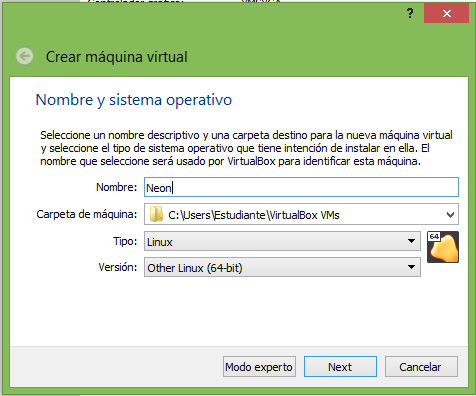
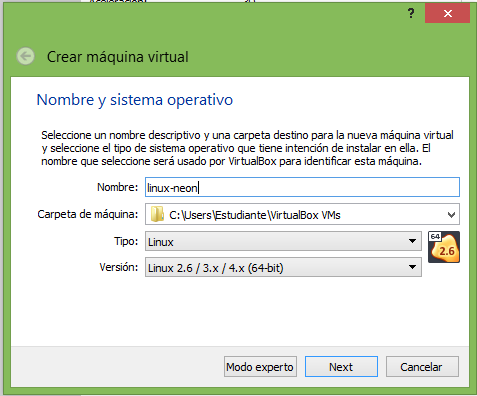
neon-04

diff --git a/README.md b/README.md
@@ -1,10 +1,35 @@
 # linux-neon
 Sistema operativo para el Desarrollo de una comunidad 
+
+1. se le pone el nombre 
 ![img](imagenes/img1.PNG)
+
+
 ![img](imagenes/img2.PNG)
+
+
+
 ![img](imagenes/img3.PNG)
+
+
 ![img](imagenes/img4.PNG)
+
+
+
 ![img](imagenes/img5.PNG)
+
+
+
 ![img](imagenes/img6.PNG)
+
+
+
 ![img](imagenes/img7.PNG)
+
+
+
 ![img](imagenes/img8.PNG)
+
+
+
+![img](imagenes/img9.PNG)
